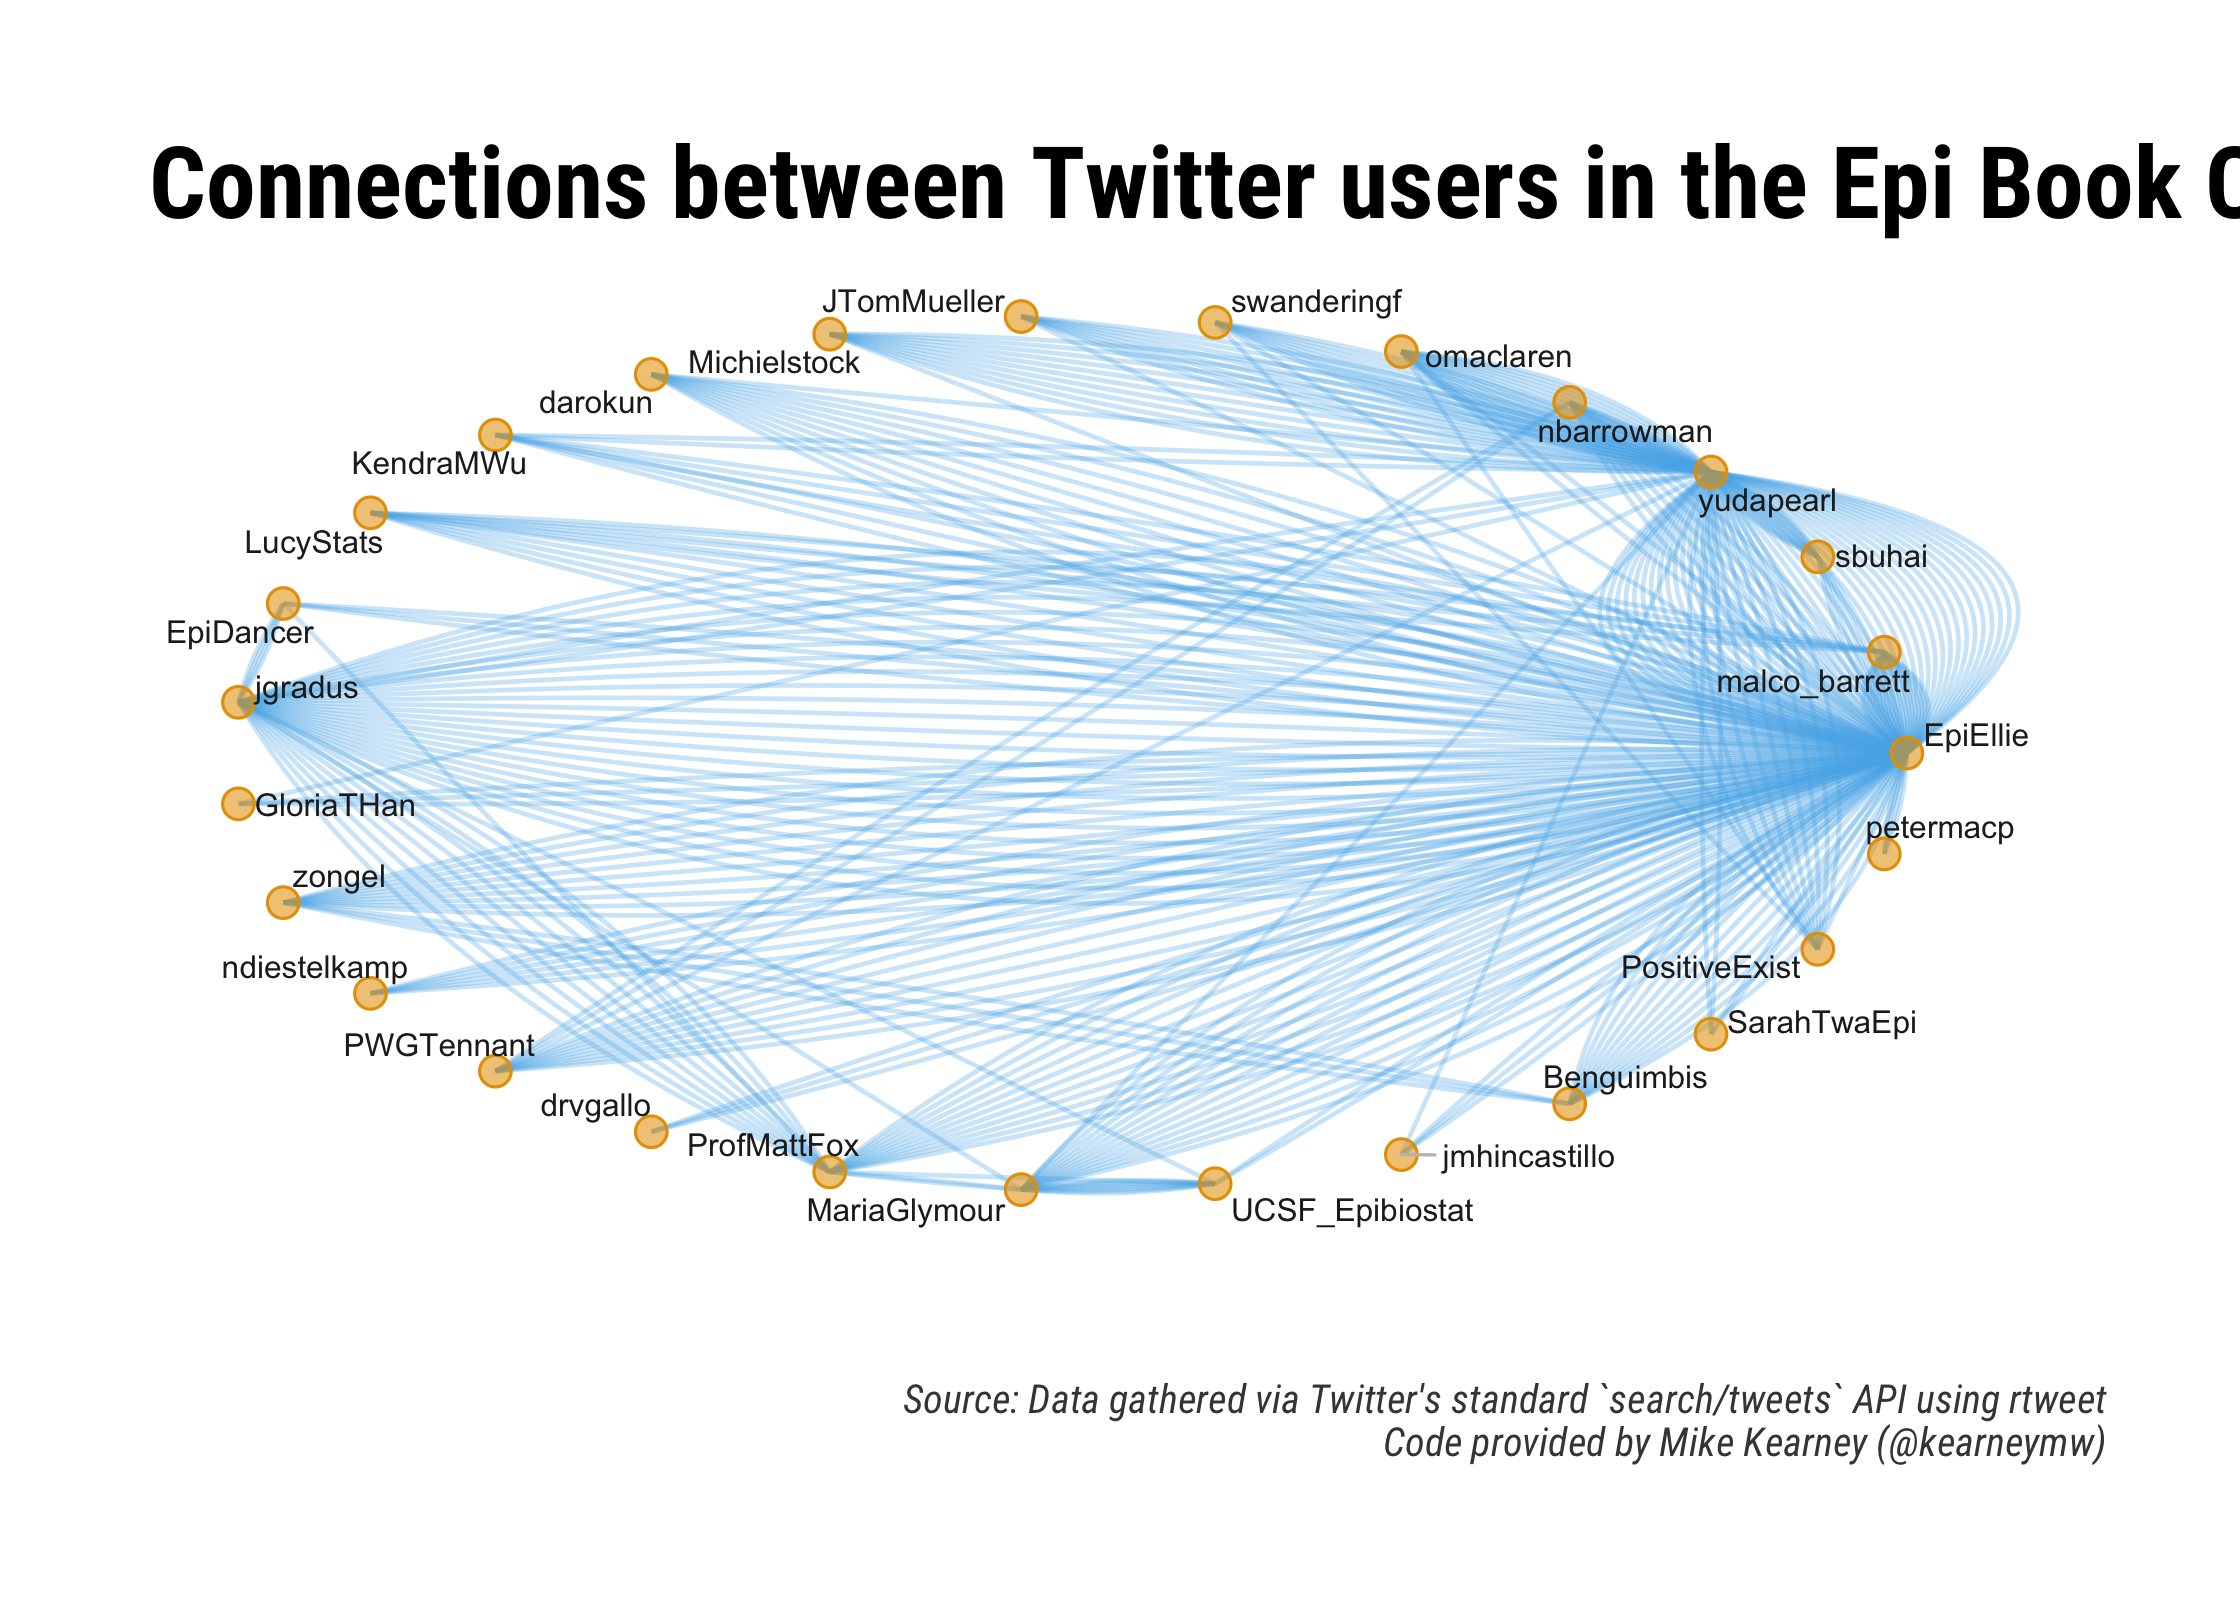
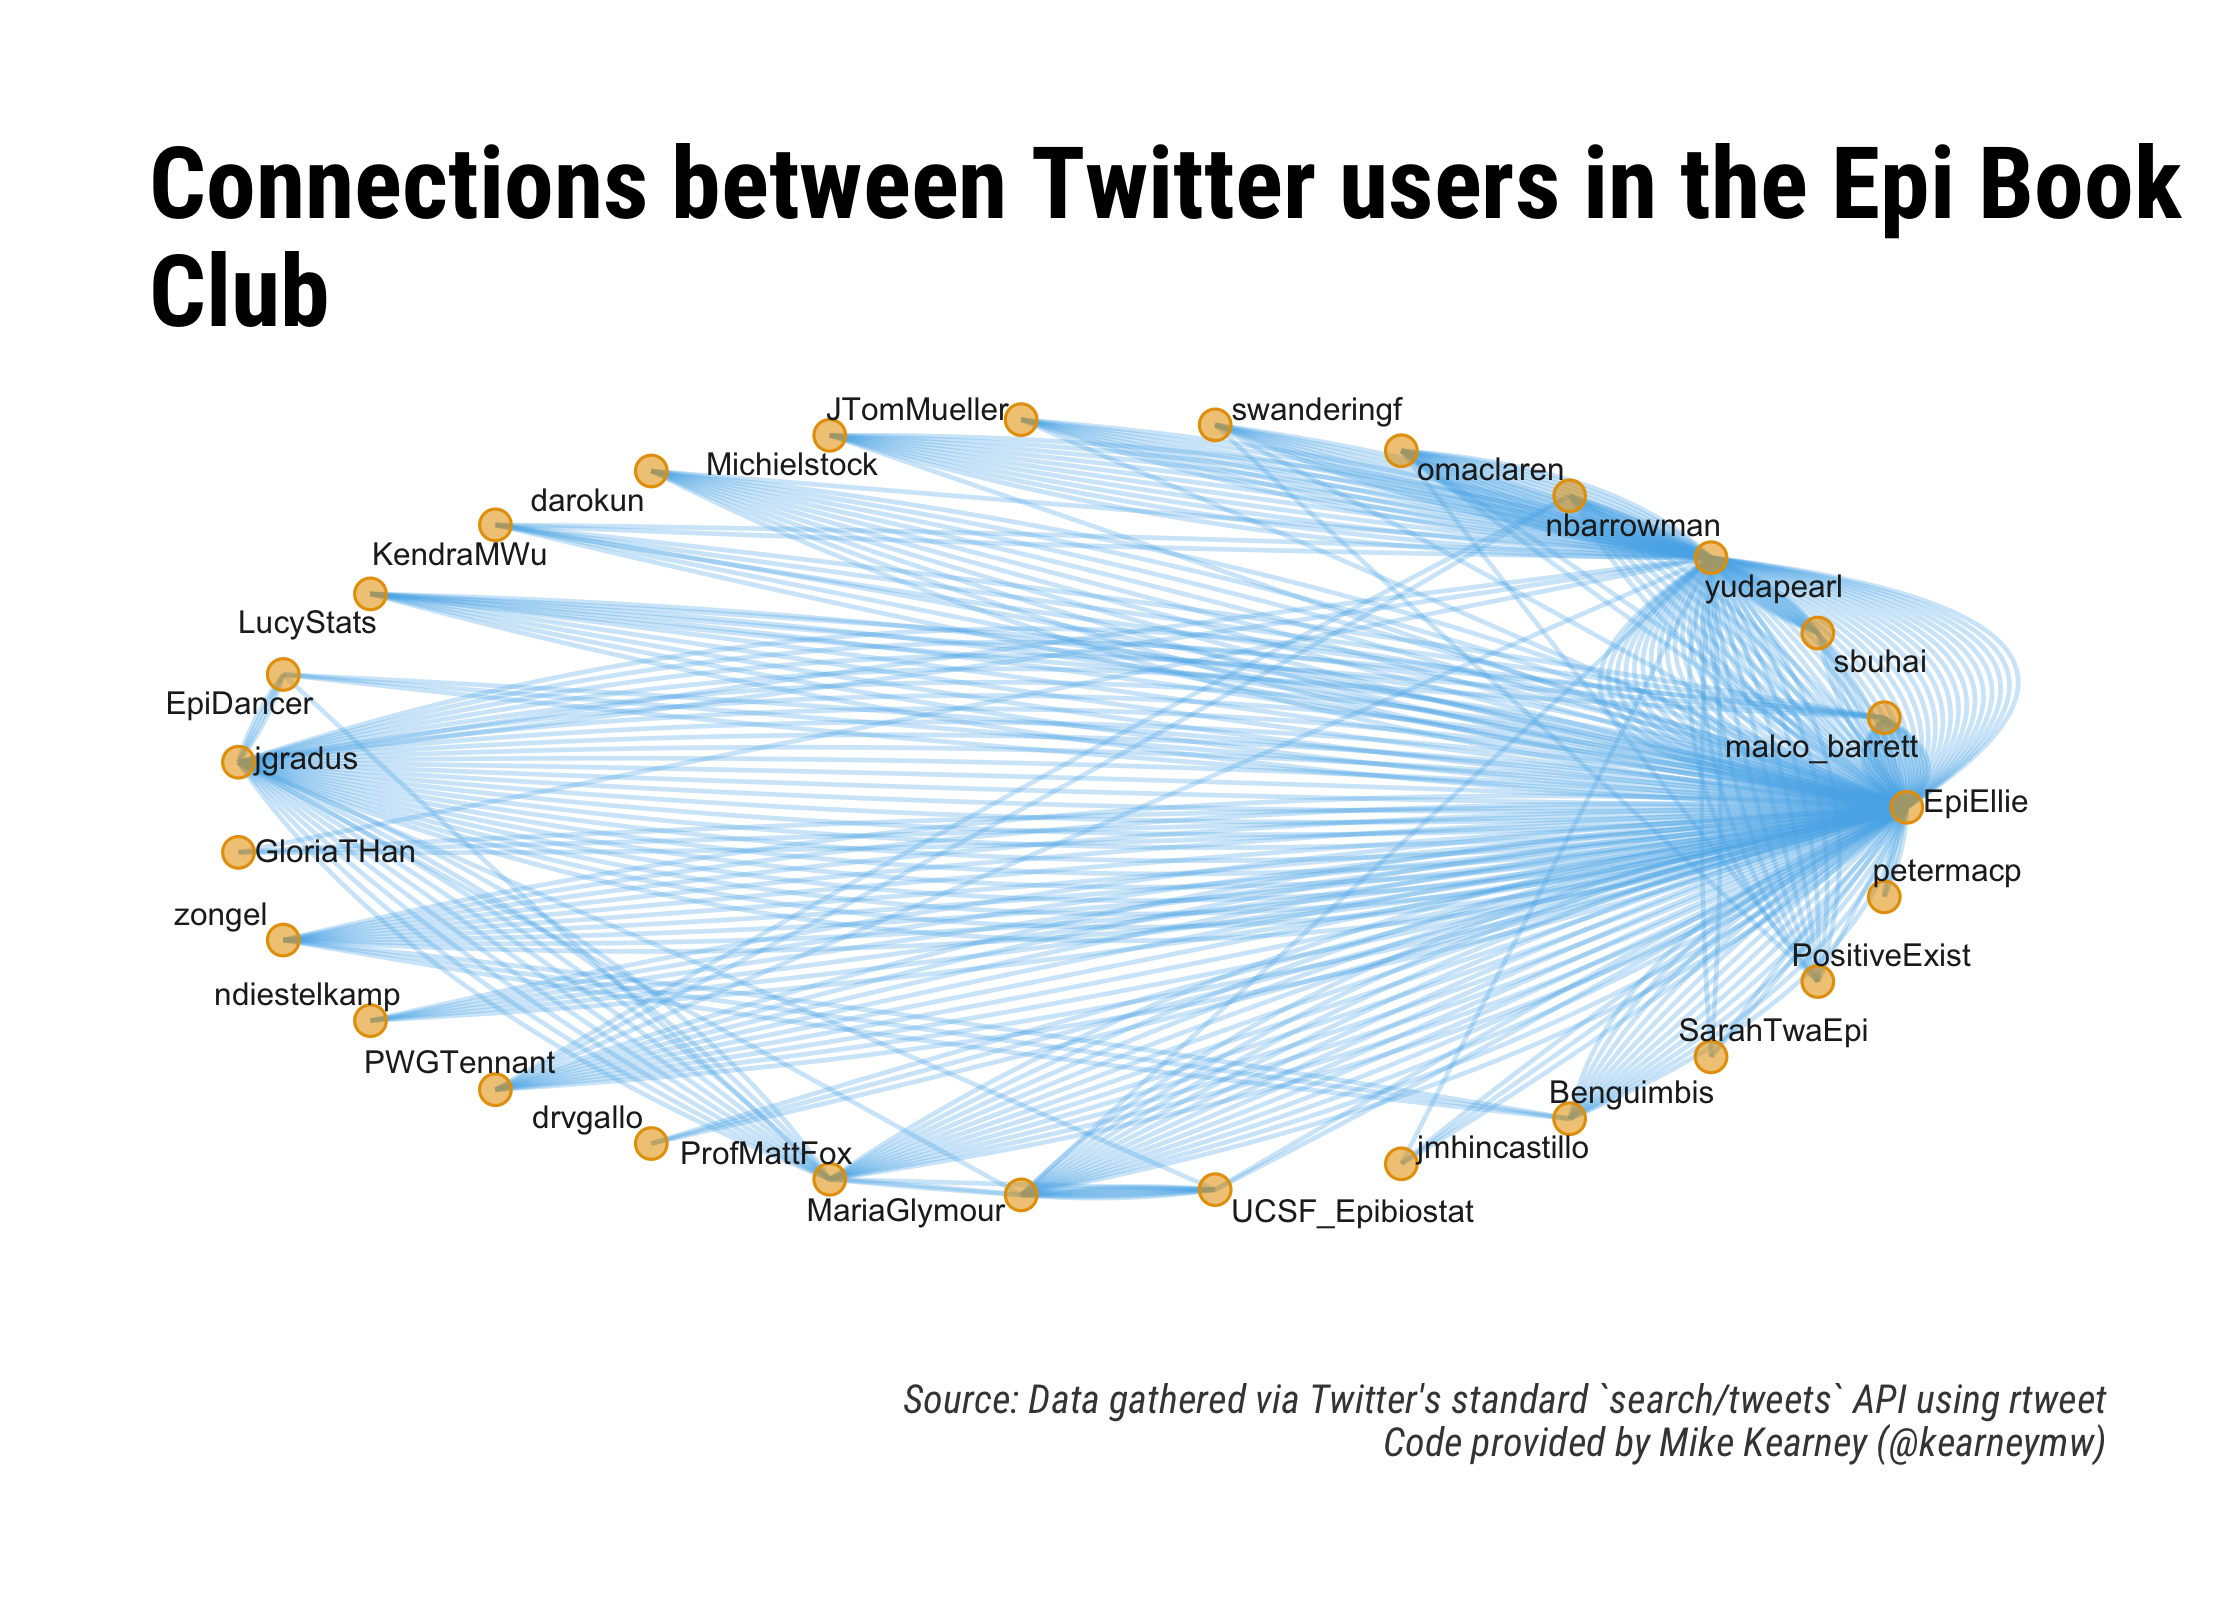
update titles

Changed region(s): [[0.0625, 0.1875, 0.9062, 0.7812], [0.0625, 0.1562, 0.1562, 0.2188], [0.9688, 0.0938, 1.0, 0.1562]]

diff --git a/README.md b/README.md
@@ -135,7 +135,7 @@ rt %>%
     scale_color_manual(values = c(Positive = "#0072B2", Negative = "#D55E00")) +
     scale_fill_manual(values = c(Positive = "#0072B2BB", Negative = "#D55E00BB")) +
     labs(x = NULL, y = NULL,
-    title = "Sentiment (valence) of Epi Book Club tweets over time",
+    title = "Sentiment (valence) of Epi Book Club tweets over\ntime",
     subtitle = "Mean sentiment of tweets aggregated in one-hour intervals",
     caption = "\nSource: Data gathered using rtweet. Sentiment analysis done using syuzhet\n Code provided by Mike Kearney (@kearneymw)")
 ```
@@ -228,7 +228,7 @@ twitter_graph %>%
   theme(plot.title = element_text(size = rel(1.5), face = "bold", margin = margin(3, 1, 10, 1)),
       plot.subtitle = element_text(size = rel(1.2)),
       plot.caption = element_text(colour = "#444444")) +
-  labs(title = "Connections between Twitter users in the Epi Book Club",
+  labs(title = "Connections between Twitter users in the Epi Book\nClub",
     caption = "\n\nSource: Data gathered via Twitter's standard `search/tweets` API using rtweet\n Code provided by Mike Kearney (@kearneymw)",
     x = NULL, y = NULL)
 ```
@@ -259,7 +259,7 @@ twitter_graph %>%
   theme(plot.title = element_text(size = rel(1.5), face = "bold", margin = margin(3, 1, 10, 1)),
       plot.subtitle = element_text(size = rel(1.2)),
       plot.caption = element_text(colour = "#444444")) +
-  labs(title = "Connections between Twitter users in the Epi Book Club",
+  labs(title = "Connections between Twitter users in the Epi Book\nClub",
     caption = "\n\nSource: Data gathered via Twitter's standard `search/tweets` API using rtweet\n Code provided by Mike Kearney (@kearneymw)",
     x = NULL, y = NULL)
 ```
